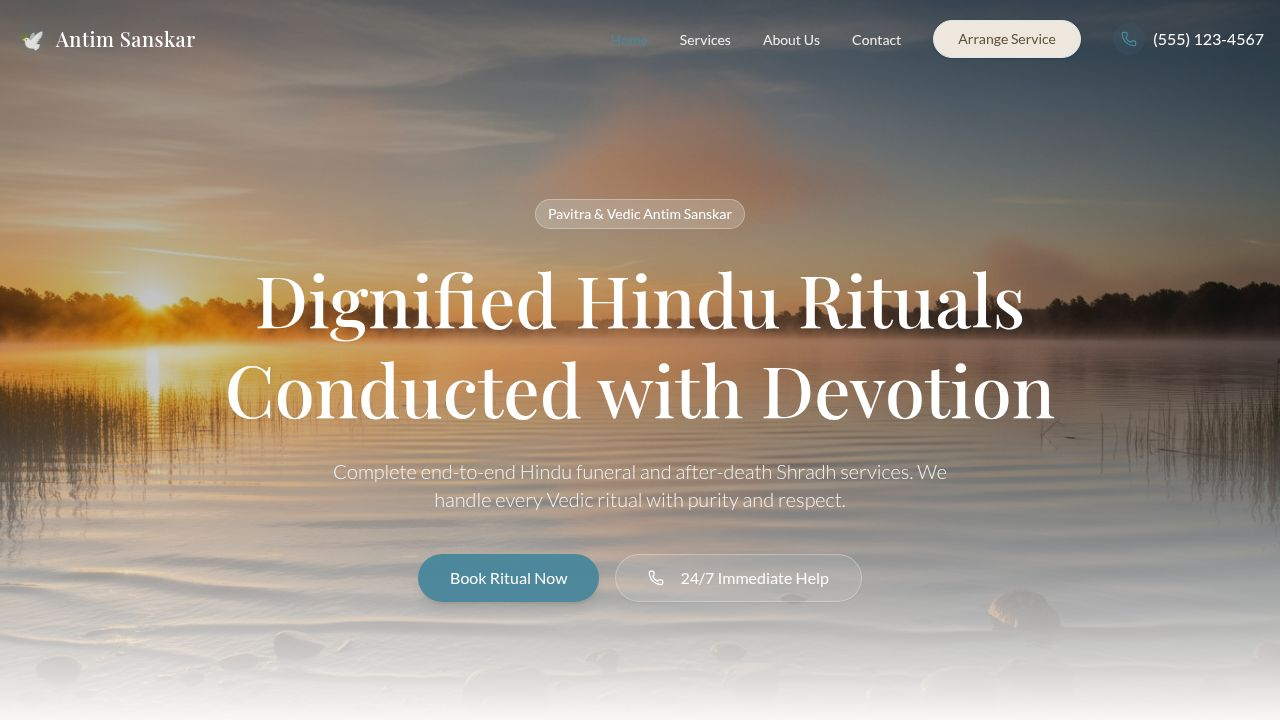
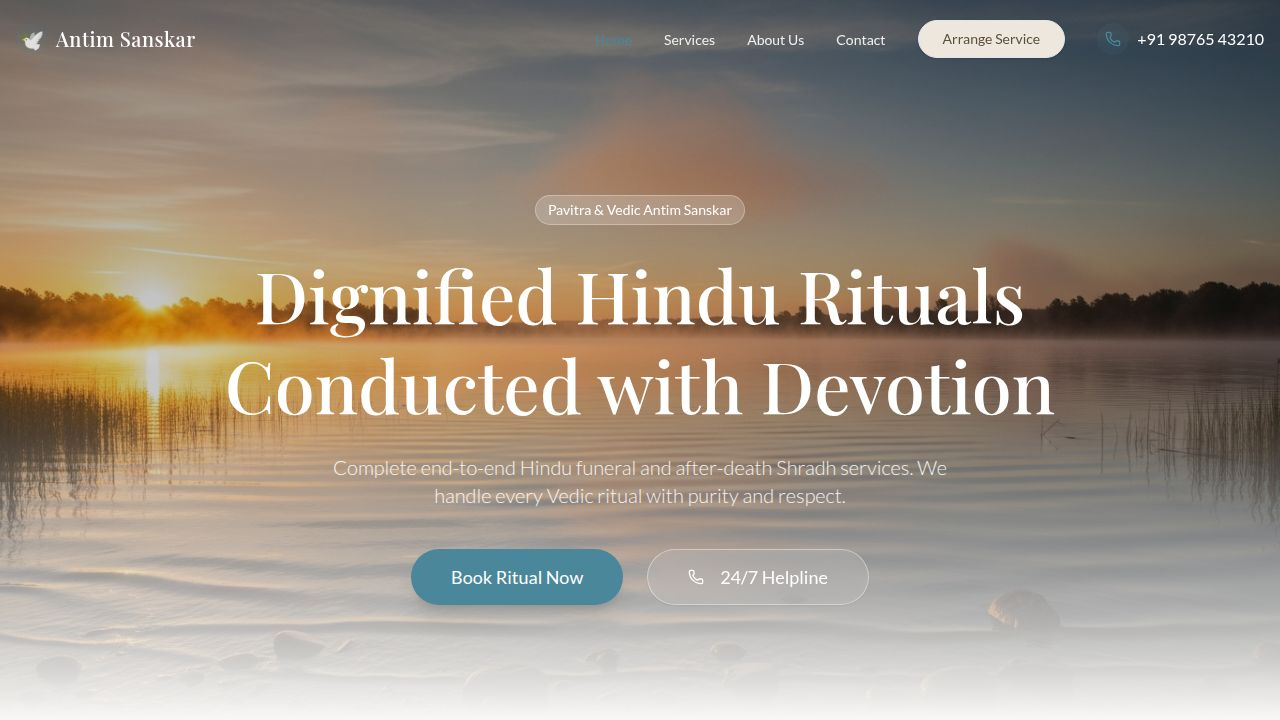
Update header and booking form with Indian contact details
Modify the booking form and header component to display Indian phone numbers and placeholder data, including updating hero section button styles.

Replit-Commit-Author: Agent
Replit-Commit-Session-Id: ea818d72-0c22-4f9c-8b6f-81a148d1da94
Replit-Commit-Checkpoint-Type: full_checkpoint
Replit-Commit-Event-Id: c5ae52a9-f0b6-45f8-9bc8-626b9b499be0
Replit-Commit-Screenshot-Url: https://storage.googleapis.com/screenshot-production-us-central1/ab2c82ba-95d0-47e2-86b5-8740dcba8db6/ea818d72-0c22-4f9c-8b6f-81a148d1da94/qcGzid9
Replit-Helium-Checkpoint-Created: true

diff --git a/client/src/pages/home.tsx b/client/src/pages/home.tsx
@@ -42,15 +42,15 @@ export default function Home() {
             Complete end-to-end Hindu funeral and after-death Shradh services. 
             We handle every Vedic ritual with purity and respect.
           </p>
-          <div className="flex flex-col sm:flex-row items-center justify-center gap-4 animate-in fade-in slide-in-from-bottom-8 duration-700 delay-300">
+          <div className="flex flex-col sm:flex-row items-center justify-center gap-6 animate-in fade-in slide-in-from-bottom-8 duration-700 delay-300">
             <Link href="/booking">
-              <Button size="lg" className="rounded-full px-8 h-12 text-base w-full sm:w-auto bg-primary hover:bg-primary/90 border-none shadow-lg hover:shadow-xl transition-all">
+              <Button size="lg" className="rounded-full px-10 h-14 text-lg w-full sm:w-auto bg-primary hover:bg-primary/90 border-none shadow-xl hover:scale-105 transition-all">
                 Book Ritual Now
               </Button>
             </Link>
-            <a href="tel:919876543210">
-              <Button size="lg" variant="outline" className="rounded-full px-8 h-12 text-base w-full sm:w-auto bg-white/10 backdrop-blur-sm border-white/30 text-white hover:bg-white/20 hover:text-white">
-                <Phone className="mr-2 size-4" /> 24/7 Immediate Help
+            <a href="tel:919876543210" className="w-full sm:w-auto">
+              <Button size="lg" variant="outline" className="rounded-full px-10 h-14 text-lg w-full sm:w-auto bg-white/10 backdrop-blur-md border-white/40 text-white hover:bg-white/20 hover:text-white transition-all">
+                <Phone className="mr-2 size-5" /> 24/7 Helpline
               </Button>
             </a>
           </div>

diff --git a/client/src/components/booking-form.tsx b/client/src/components/booking-form.tsx
@@ -103,7 +103,7 @@ export function BookingForm() {
               <FormItem>
                 <FormLabel>Full Name</FormLabel>
                 <FormControl>
-                  <Input placeholder="John Doe" {...field} />
+                  <Input placeholder="Rajesh Kumar" {...field} />
                 </FormControl>
                 <FormMessage />
               </FormItem>
@@ -116,7 +116,7 @@ export function BookingForm() {
               <FormItem>
                 <FormLabel>Phone Number</FormLabel>
                 <FormControl>
-                  <Input placeholder="(555) 123-4567" type="tel" {...field} />
+                  <Input placeholder="+91 98765 43210" type="tel" {...field} />
                 </FormControl>
                 <FormMessage />
               </FormItem>
@@ -132,7 +132,7 @@ export function BookingForm() {
               <FormItem>
                 <FormLabel>Email Address</FormLabel>
                 <FormControl>
-                  <Input placeholder="john@example.com" type="email" {...field} />
+                  <Input placeholder="rajesh@example.in" type="email" {...field} />
                 </FormControl>
                 <FormMessage />
               </FormItem>
@@ -145,7 +145,7 @@ export function BookingForm() {
               <FormItem>
                 <FormLabel>Location</FormLabel>
                 <FormControl>
-                  <Input placeholder="City, Area or Hospital Name" {...field} />
+                  <Input placeholder="Varanasi, Uttar Pradesh" {...field} />
                 </FormControl>
                 <FormMessage />
               </FormItem>

diff --git a/client/src/components/navbar.tsx b/client/src/components/navbar.tsx
@@ -82,7 +82,7 @@ export function Navbar() {
               <Phone className="size-4" />
             </div>
             <span className={isScrolled || location !== "/" ? "text-foreground" : "text-white"}>
-              (555) 123-4567
+              +91 98765 43210
             </span>
           </div>
         </div>
@@ -122,8 +122,8 @@ export function Navbar() {
                 </nav>
                 <div className="flex flex-col gap-2 p-4 bg-secondary/30 rounded-lg">
                   <span className="text-sm text-muted-foreground">24/7 Support Line</span>
-                  <a href="tel:5551234567" className="flex items-center gap-2 text-primary font-bold">
-                    <Phone className="size-4" /> (555) 123-4567
+                  <a href="tel:919876543210" className="flex items-center gap-2 text-primary font-bold">
+                    <Phone className="size-4" /> +91 98765 43210
                   </a>
                 </div>
               </div>
